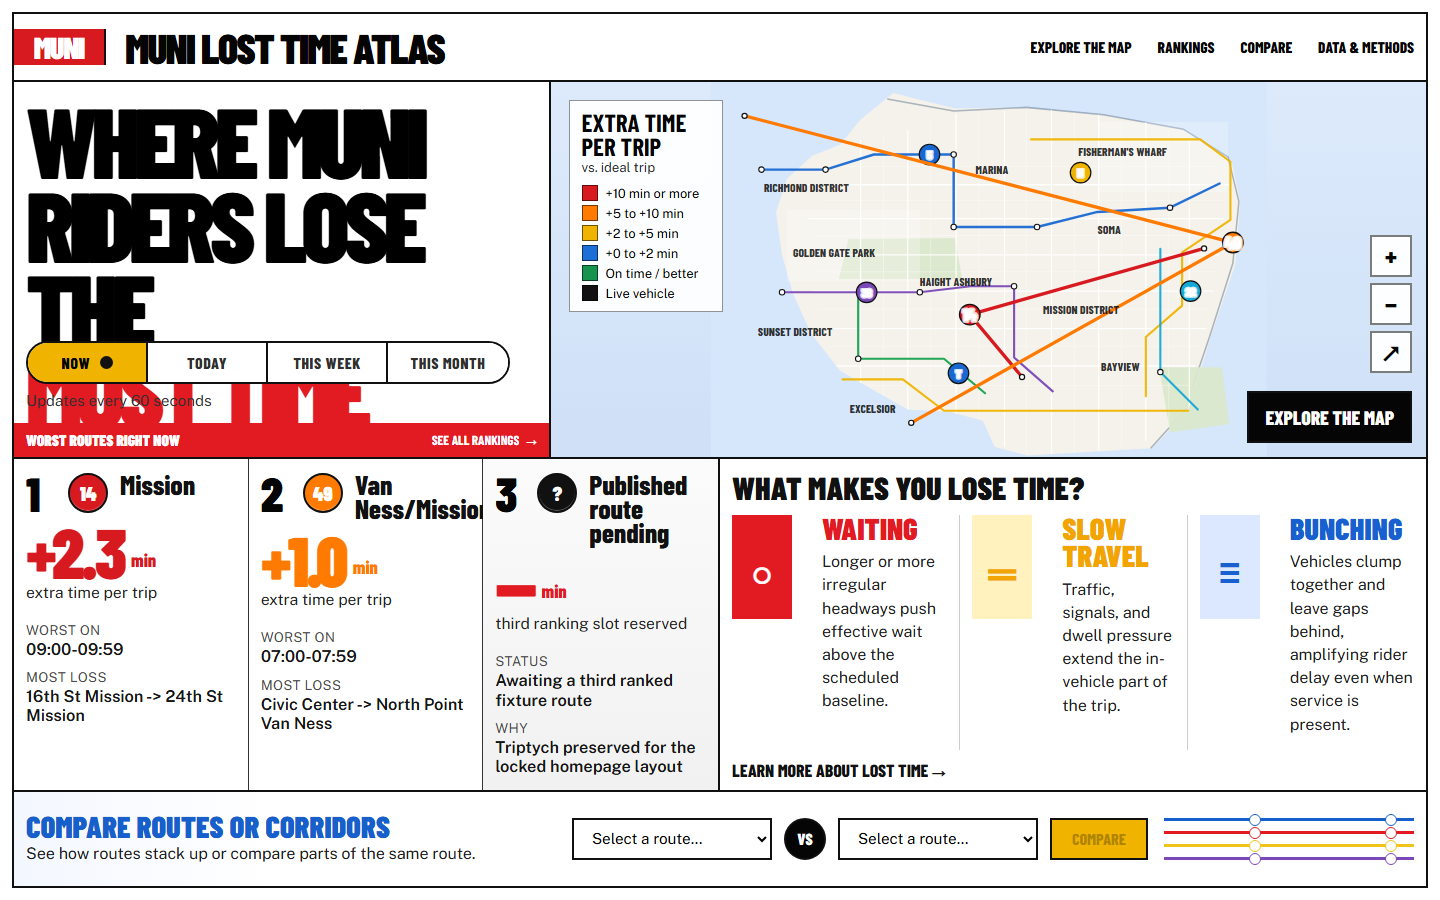
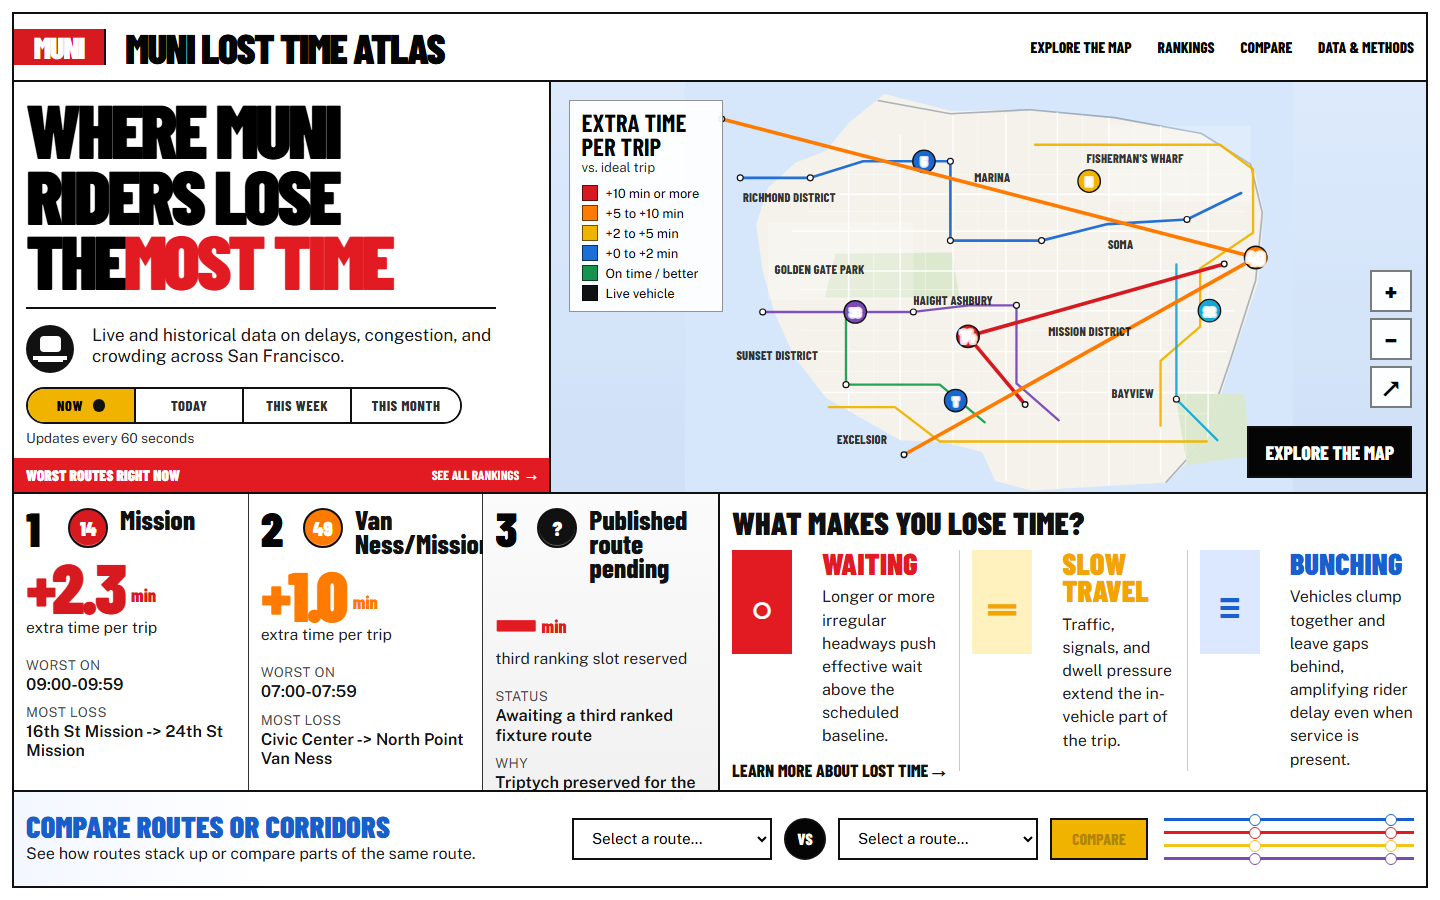
frontend edits

Changed region(s): [[0.0, 0.0933, 1.0, 0.8711], [0.3438, 0.6533, 0.5, 0.8711], [0.5938, 0.0933, 0.7188, 0.1244]]

diff --git a/frontend/app/globals.css b/frontend/app/globals.css
@@ -1896,17 +1896,14 @@ body:has(.homepage-viewport) {
   overflow: hidden;
 }
 
-body:has(.homepage-viewport) .site-header,
-body:has(.homepage-viewport) .site-footer {
-  display: none;
-}
-
+.site-frame.homepage-active-frame,
 body:has(.homepage-viewport) .site-frame {
   min-height: 100vh;
   height: 100vh;
   grid-template-rows: minmax(0, 1fr);
 }
 
+.site-frame.homepage-active-frame main,
 body:has(.homepage-viewport) main {
   min-height: 100vh;
   height: 100vh;
@@ -1915,8 +1912,8 @@ body:has(.homepage-viewport) main {
 
 .homepage-viewport {
   --home-row-header: 8fr;
-  --home-row-hero: 43fr;
-  --home-row-insights: 38fr;
+  --home-row-hero: 47fr;
+  --home-row-insights: 34fr;
   --home-row-compare: 11fr;
   --home-gutter-inline: 12px;
   --home-hero-left: 38%;
@@ -2037,13 +2034,13 @@ body:has(.homepage-viewport) main {
   display: grid;
   grid-template-rows: minmax(0, 1fr) auto auto;
   border-right: 2px solid var(--rule);
-  padding: 16px 12px 0;
+  padding: 14px 12px 0;
 }
 
 .homepage-story-copy {
   display: grid;
   align-content: start;
-  gap: 12px;
+  gap: 14px;
   min-height: 0;
 }
 
@@ -2051,7 +2048,7 @@ body:has(.homepage-viewport) main {
   margin: 0;
   color: var(--ink-strong, #000);
   font-family: var(--font-display);
-  font-size: clamp(78px, 5.9vw, 112px);
+  font-size: clamp(72px, 5.3vw, 102px);
   font-weight: 900;
   line-height: 0.86;
   letter-spacing: -0.05em;
@@ -2138,8 +2135,8 @@ body:has(.homepage-viewport) main {
 .homepage-story-controls {
   display: grid;
   justify-content: start;
-  gap: 8px;
-  padding: 4px 0 14px;
+  gap: 6px;
+  padding: 6px 0 12px;
 }
 
 .homepage-story-controls .window-strip {
@@ -2147,16 +2144,16 @@ body:has(.homepage-viewport) main {
 }
 
 .homepage-story-controls .window-tab {
-  min-width: 120px;
+  min-width: 108px;
   justify-content: center;
-  padding: 10px 18px;
-  font-size: 0.98rem;
+  padding: 8px 14px;
+  font-size: 0.9rem;
 }
 
 .homepage-story-controls p {
   margin: 0;
   color: #303030;
-  font-size: 0.95rem;
+  font-size: 0.86rem;
 }
 
 .homepage-story-banner {
@@ -2803,6 +2800,8 @@ body:has(.homepage-viewport) main {
     overflow: auto;
   }
 
+  .site-frame.homepage-active-frame,
+  .site-frame.homepage-active-frame main,
   body:has(.homepage-viewport) .site-frame,
   body:has(.homepage-viewport) main {
     height: auto;

diff --git a/frontend/e2e/smoke.spec.ts b/frontend/e2e/smoke.spec.ts
@@ -2,31 +2,17 @@ import { mkdirSync } from "node:fs";
 import path from "node:path";
 import { expect, test } from "@playwright/test";
 
-test("major public surfaces render and a desktop review screenshot is captured", async ({
-  page,
-}) => {
+test("homepage renders and a desktop review screenshot is captured", async ({ page }) => {
   const screenshotDir = path.join(process.cwd(), "..", "artifacts", "frontend");
   mkdirSync(screenshotDir, { recursive: true });
 
   await page.setViewportSize({ width: 1440, height: 900 });
   await page.goto("/");
-  await expect(page.getByRole("heading", { name: /Where Muni riders lose/i })).toBeVisible();
+  await expect(page.getByText("Worst Routes Right Now")).toBeVisible();
   await page.waitForTimeout(500);
   await page.screenshot({ path: path.join(screenshotDir, "b5-homepage-desktop.png") });
-
-  await page.goto("/routes/14");
-  await expect(page.getByRole("heading", { name: /Mission/i })).toBeVisible();
-
-  await page.goto("/compare?ids=14,49");
-  await expect(page.getByRole("heading", { name: /Put the routes next to each other/i })).toBeVisible();
-
-  await page.goto("/map");
-  await expect(page.getByRole("heading", { name: /The citywide evidence surface/i })).toBeVisible();
 
   await page.setViewportSize({ width: 390, height: 844 });
   await page.goto("/");
   await expect(page.getByText(/Updates every 60 seconds/i)).toBeVisible();
-
-  await page.goto("/methodology");
-  await expect(page.getByRole("heading", { name: /Typical trip: \+X.X min is the public promise/i })).toBeVisible();
 });

diff --git a/frontend/app/layout.tsx b/frontend/app/layout.tsx
@@ -1,7 +1,6 @@
 import type { Metadata } from "next";
 import { Barlow_Condensed, Public_Sans } from "next/font/google";
-import { SiteFooter } from "@/components/site-footer";
-import { SiteHeader } from "@/components/site-header";
+import { AppChrome } from "@/components/app-chrome";
 import "./globals.css";
 
 const display = Barlow_Condensed({
@@ -28,11 +27,7 @@ export default function RootLayout({
   return (
     <html lang="en">
       <body className={`${display.variable} ${body.variable}`}>
-        <div className="site-frame">
-          <SiteHeader />
-          <main>{children}</main>
-          <SiteFooter />
-        </div>
+        <AppChrome>{children}</AppChrome>
       </body>
     </html>
   );

diff --git a/frontend/app/page.tsx b/frontend/app/page.tsx
@@ -1,7 +1,6 @@
 import type { CSSProperties } from "react";
 import Link from "next/link";
 import { CompareSelector } from "@/components/compare-selector";
-import { HomeBodyClass } from "@/components/home-body-class";
 import { MapSchematic } from "@/components/map-schematic";
 import { RouteBadge } from "@/components/route-badge";
 import { TimeWindowStrip } from "@/components/time-window-strip";
@@ -20,7 +19,6 @@ export default function HomePage() {
 
   return (
     <div className="homepage-viewport">
-      <HomeBodyClass />
       <header className="homepage-masthead">
         <Link className="homepage-brand" href="/">
           <span aria-hidden="true" className="homepage-brand-mark">

diff --git a/frontend/components/app-chrome.tsx b/frontend/components/app-chrome.tsx
@@ -1,0 +1,18 @@
+"use client";
+
+import { usePathname } from "next/navigation";
+import { SiteFooter } from "@/components/site-footer";
+import { SiteHeader } from "@/components/site-header";
+
+export function AppChrome({ children }: { children: React.ReactNode }) {
+  const pathname = usePathname();
+  const isHome = pathname === "/";
+
+  return (
+    <div className={`site-frame${isHome ? " homepage-active-frame" : ""}`}>
+      {isHome ? null : <SiteHeader />}
+      <main>{children}</main>
+      {isHome ? null : <SiteFooter />}
+    </div>
+  );
+}

diff --git a/frontend/playwright.config.ts b/frontend/playwright.config.ts
@@ -4,13 +4,13 @@ export default defineConfig({
   testDir: "./e2e",
   timeout: 45_000,
   use: {
-    baseURL: "http://127.0.0.1:3100",
+    baseURL: "http://127.0.0.1:3110",
     trace: "on-first-retry",
   },
   webServer: {
-    command: "npm run start -- --hostname 127.0.0.1 --port 3100",
-    port: 3100,
-    reuseExistingServer: true,
+    command: "npm run start -- --hostname 127.0.0.1 --port 3110",
+    port: 3110,
+    reuseExistingServer: false,
     timeout: 120_000,
   },
 });
